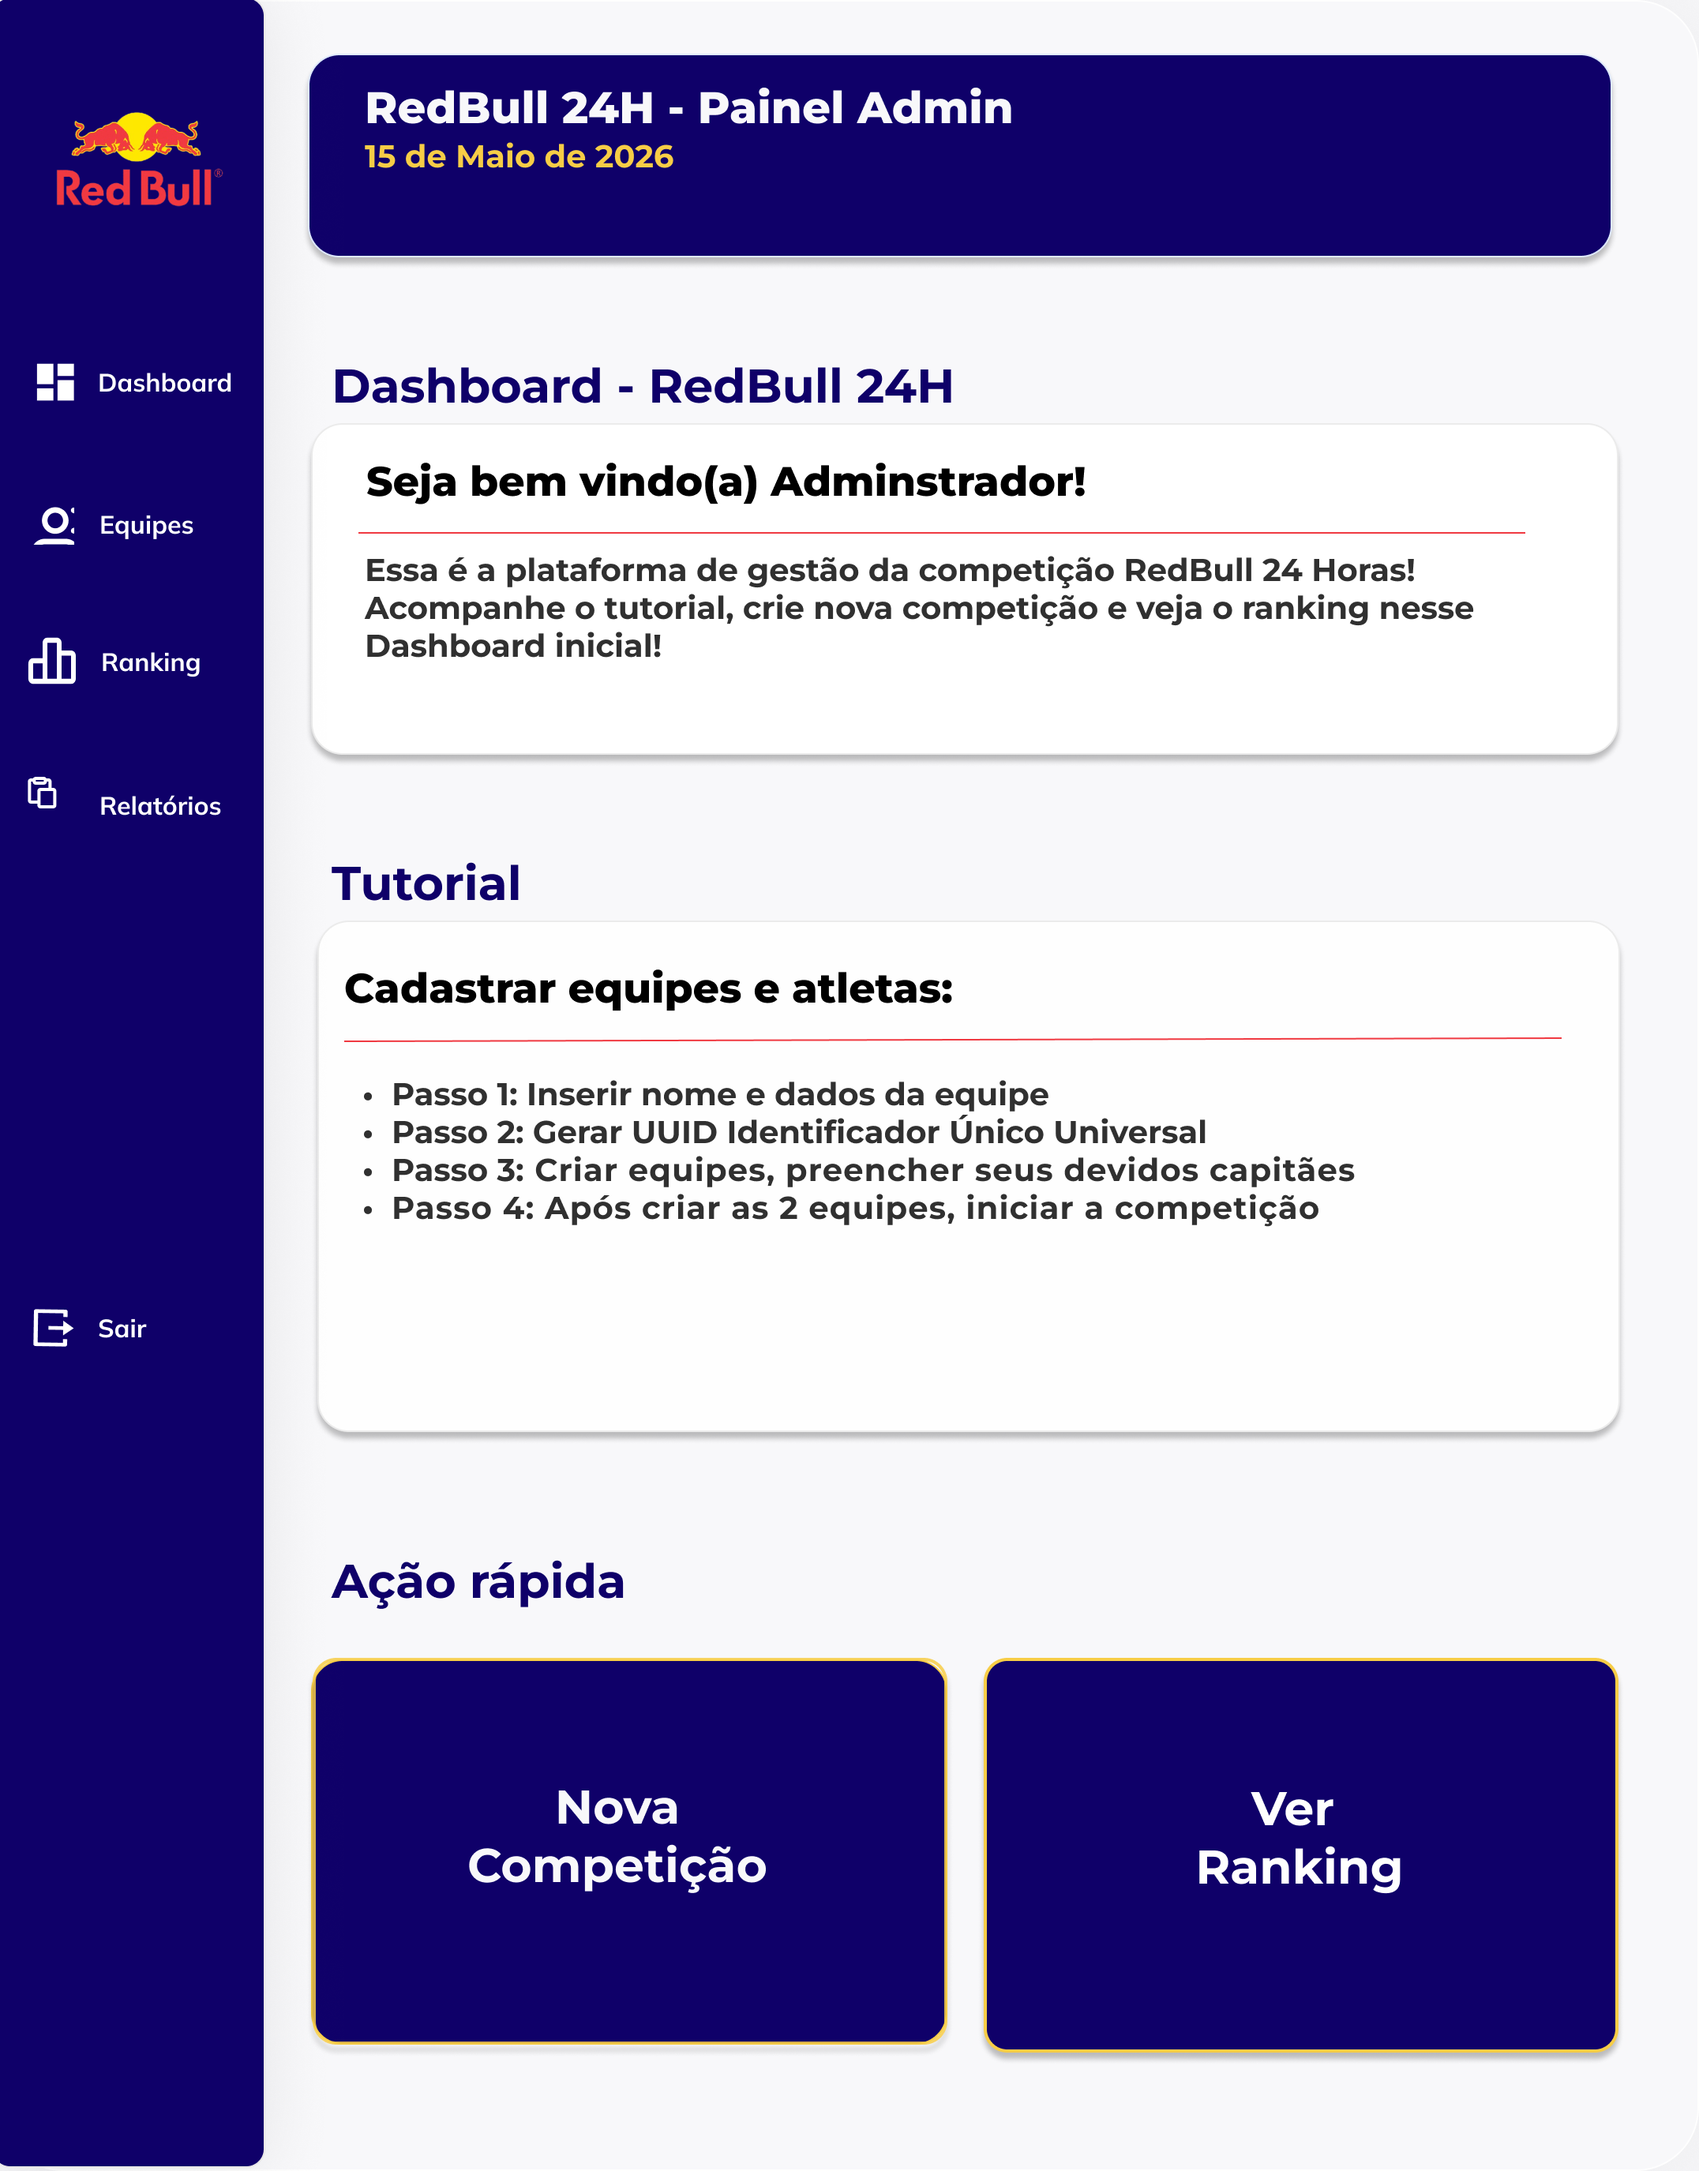
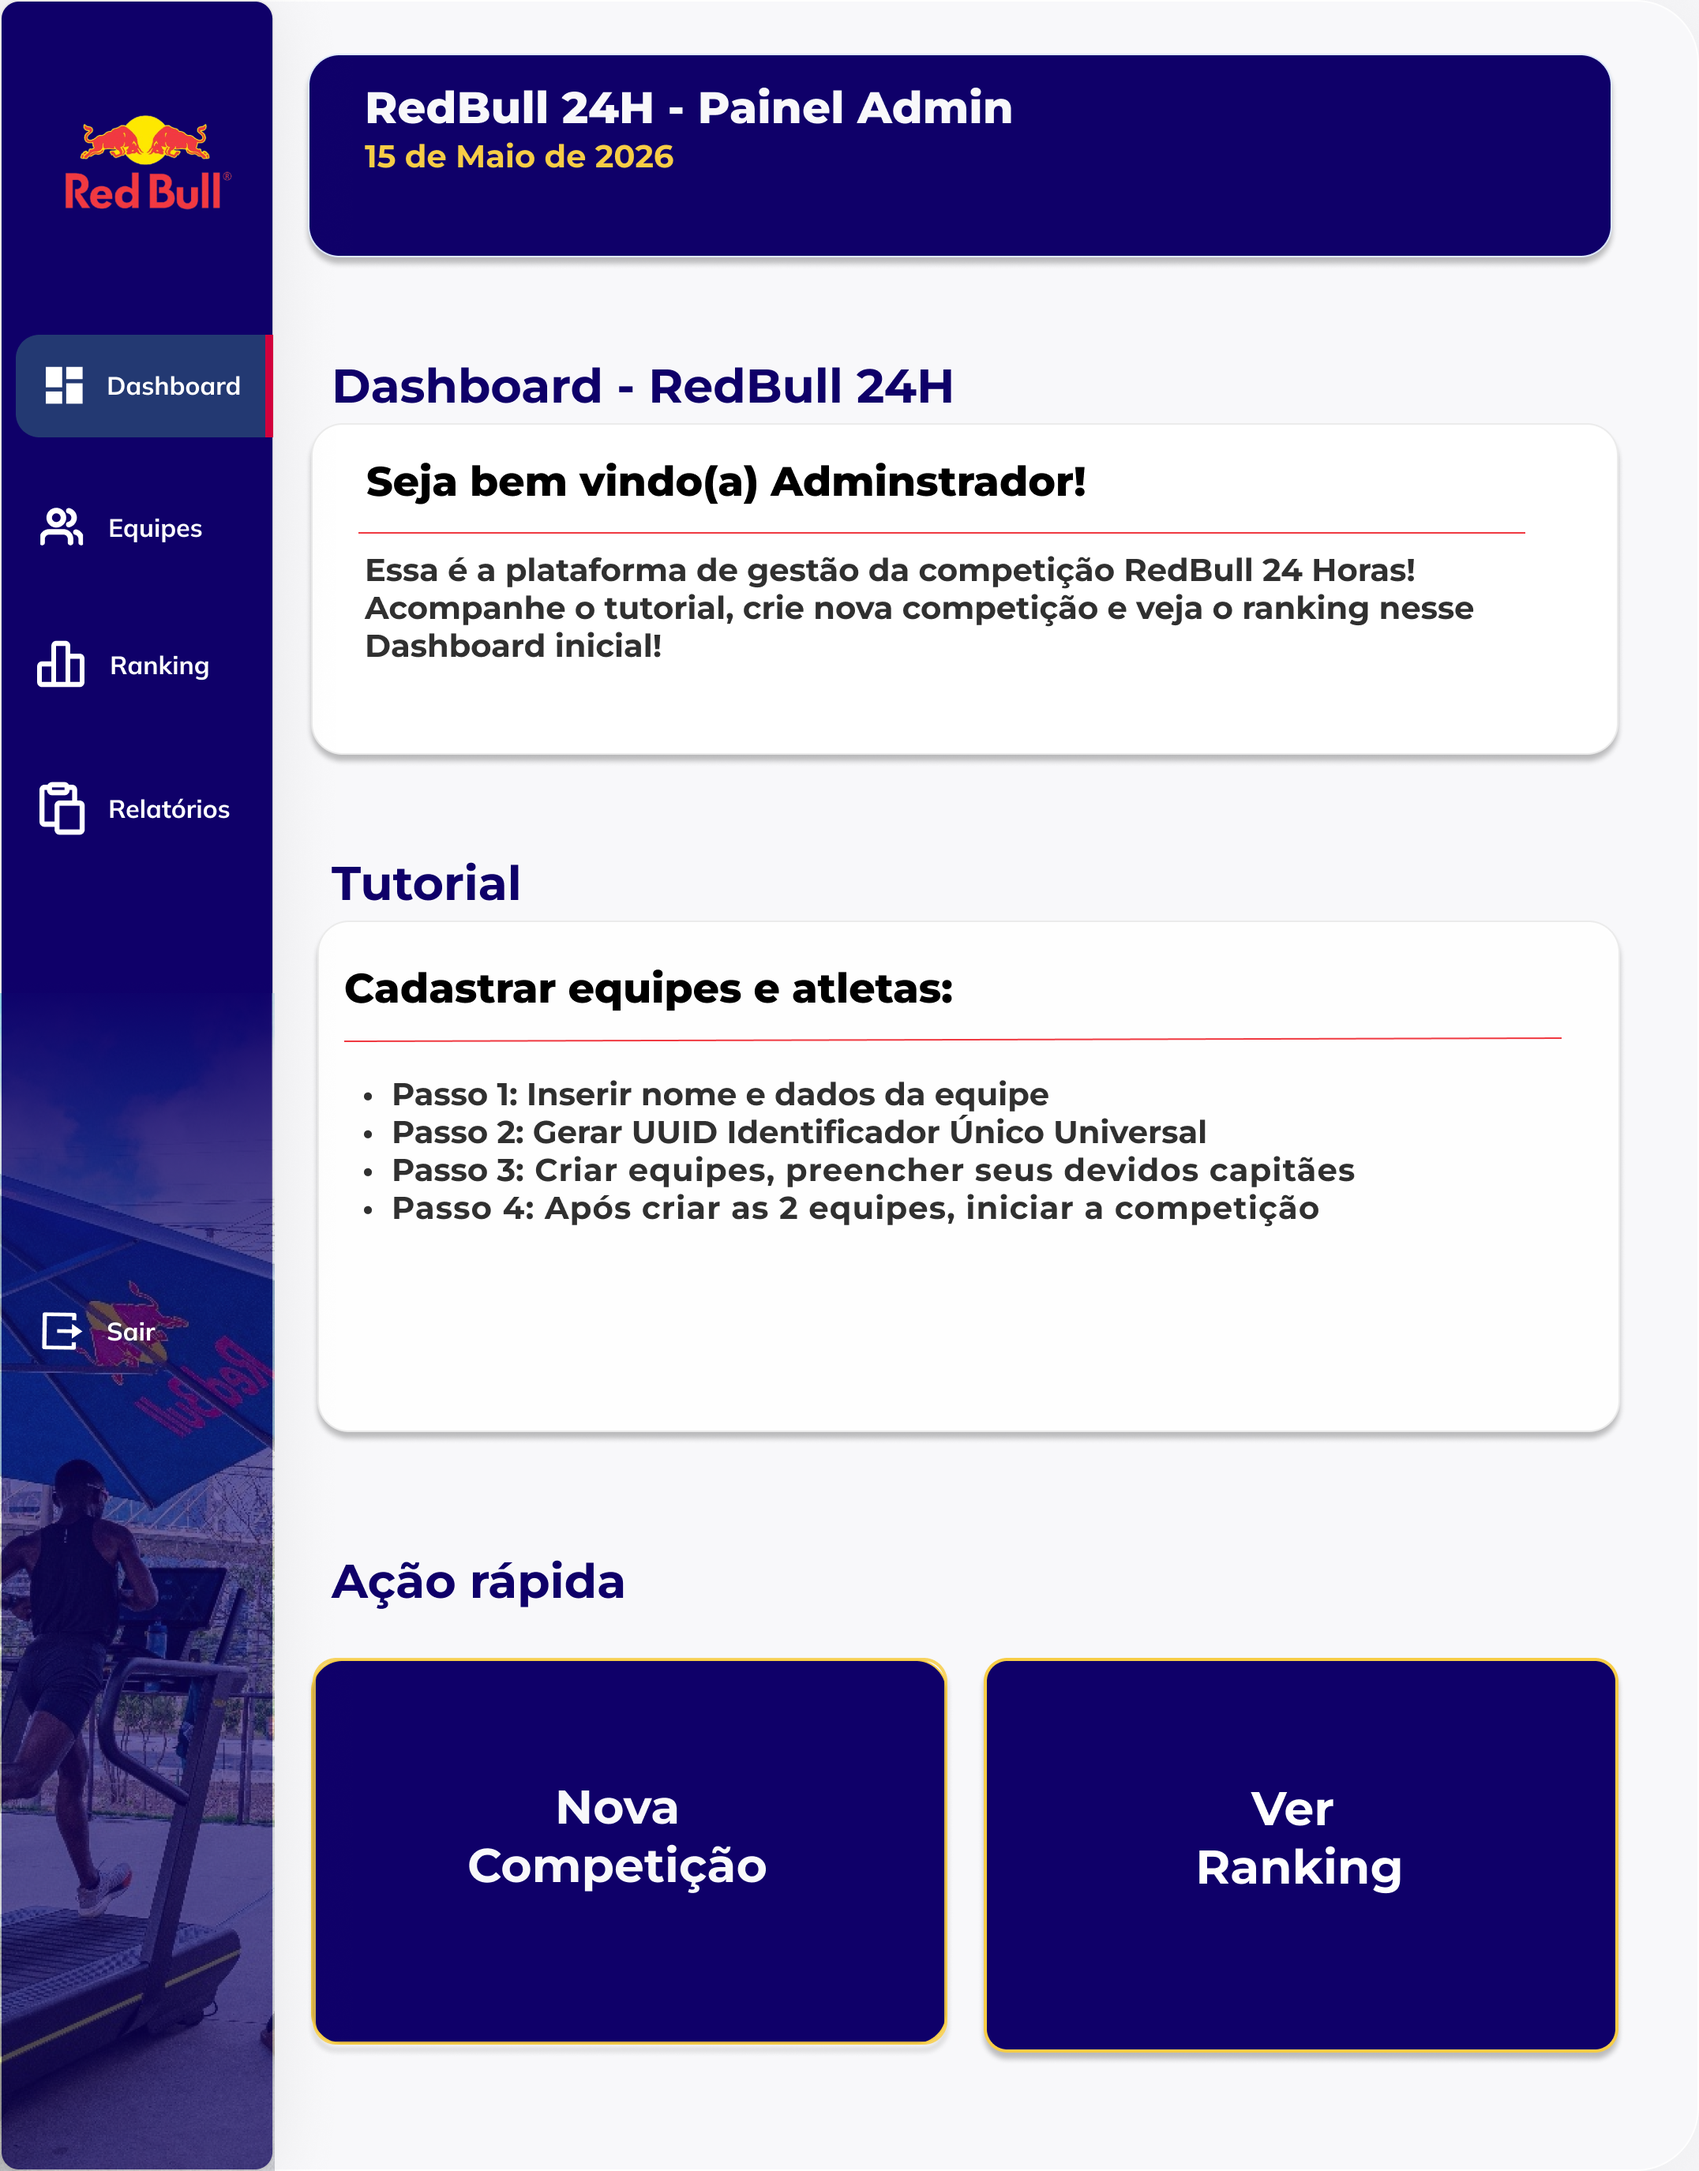
chore(#200): Adiciona novas imagens do protótipo
Esse commit tem como objetivo adicionar na pastaassets/design/protótipo os novos protótipos atualizados com a sidebar modificada

Refs #200

Changed region(s): [[0.0, 0.0, 0.1868, 1.0], [0.0, 0.2782, 0.1245, 0.4018], [0.0311, 0.0309, 0.1245, 0.0927]]

diff --git a/documentos/wad.md b/documentos/wad.md
@@ -1356,7 +1356,7 @@ O protótipo também está servindo como referência para o desenvolvimento fron
 
 <div align="center">
   <sub>Figura 1 - Dashboard Principal</sub><br>
-    <img src="../assets/design/protótipo/(1).Dashboard-principal.png"  width="100%" alt="Representação da primeira tela do Sistema WEB - O dash oard principal"><br>
+    <img src="../assets/design/prototipo/(1).Dashboard-principal.png"  width="100%" alt="Representação da primeira tela do Sistema WEB - O dash oard principal"><br>
       <sup>Fonte: Elaborado pelos autores (2026).</sup>
 </div>
 
@@ -1366,7 +1366,7 @@ O protótipo também está servindo como referência para o desenvolvimento fron
 
 <div align="center">
   <sub>Figura 2 - Cadastro de competição </sub><br>
-    <img src="../assets/design/protótipo/(2).Dashboard-nova-competição.png"  width="100%" alt="Representação da tela de cadastro de equipe"><br>
+    <img src="../assets/design/protótipo/(2).Dashboard-nova-competiçao.png"  width="100%" alt="Representação da tela de cadastro de equipe"><br>
       <sup>Fonte: Elaborado pelos autores (2026).</sup>
 </div>
 
@@ -1377,7 +1377,7 @@ O protótipo também está servindo como referência para o desenvolvimento fron
 
 <div align="center">
   <sub>Figura 3 - Competição Cadastrada </sub><br>
-    <img src="../assets/design/protótipo/(3).Dashboard-competição-cadastrada.png"  width="100%" alt="Representação do dashboard pós cadastro de equipe"><br>
+    <img src="../assets/design/protótipo/(3).Dashboard-competiçao-cadastrada.png"  width="100%" alt="Representação do dashboard pós cadastro de equipe"><br>
       <sup>Fonte: Elaborado pelos autores (2026).</sup>
 </div>
 
@@ -1387,7 +1387,7 @@ O protótipo também está servindo como referência para o desenvolvimento fron
 
 <div align="center">
   <sub>Figura 4 - Painel Equipes vazio</sub><br>
-    <img src="../assets/design/protótipo/(4).Paineladmin-sem-equipe-cadastrada.png"  width="100%" alt="Representação da tela de cadastro de equipe antes de qualquer cadastro"><br>
+    <img src="../assets/design/protótipo/(4).Paineladmin-sem-eqipe-cadastrada.png"  width="100%" alt="Representação da tela de cadastro de equipe antes de qualquer cadastro"><br>
       <sup>Fonte: Elaborado pelos autores (2026).</sup>
 </div>
 
